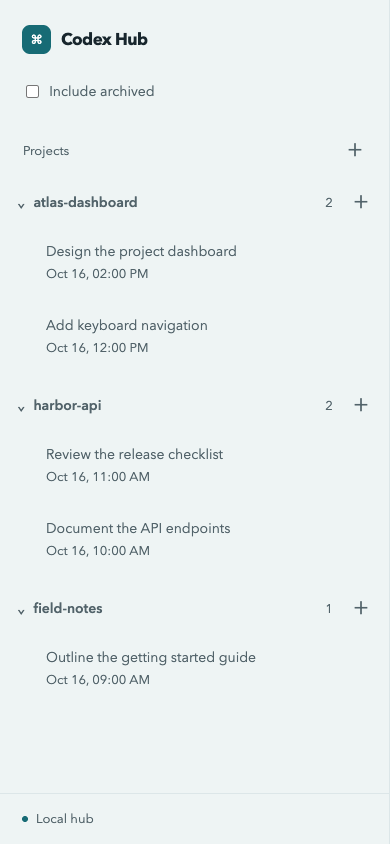
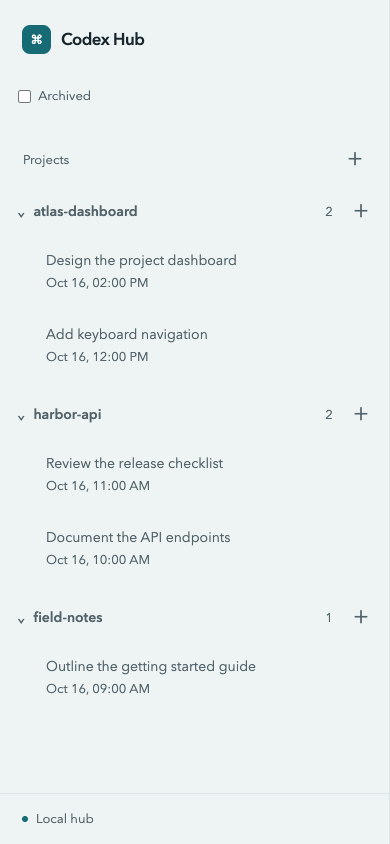
feat: compact sidebar filters and add test CI (#1)
* feat: align sidebar home and archive filters

* ci: run tests on pushes and pull requests

* ci: limit push tests to main

diff --git a/src/client/components/HubSidebar.tsx b/src/client/components/HubSidebar.tsx
@@ -51,31 +51,33 @@ export function HubSidebar({
           Codex Hub
         </InternalLink>
       </header>
-      {(catalog.list?.homes?.length ?? 0) > 1 ? (
-        <label className="archive-switch">
-          Home
-          <select
-            aria-label="Filter by home"
-            value={homeFilter}
-            onChange={(event) => onHomeFilter?.(event.target.value)}
-          >
-            <option value="">All homes</option>
-            {catalog.list!.homes.map((home) => (
-              <option key={home.sourceInstanceId} value={home.sourceInstanceId}>
-                {home.nickname}
-              </option>
-            ))}
-          </select>
+      <div className="catalog-filters">
+        {(catalog.list?.homes?.length ?? 0) > 1 ? (
+          <label className="home-filter">
+            Home
+            <select
+              aria-label="Filter by home"
+              value={homeFilter}
+              onChange={(event) => onHomeFilter?.(event.target.value)}
+            >
+              <option value="">All homes</option>
+              {catalog.list!.homes.map((home) => (
+                <option key={home.sourceInstanceId} value={home.sourceInstanceId}>
+                  {home.nickname}
+                </option>
+              ))}
+            </select>
+          </label>
+        ) : null}
+        <label className="check-row archive-switch">
+          <input
+            type="checkbox"
+            checked={navigation.includeArchived}
+            onChange={(event) => setIncludeArchived(event.target.checked)}
+          />
+          Archived
         </label>
-      ) : null}
-      <label className="check-row archive-switch">
-        <input
-          type="checkbox"
-          checked={navigation.includeArchived}
-          onChange={(event) => setIncludeArchived(event.target.checked)}
-        />
-        Include archived
-      </label>
+      </div>
       <div className="hub-section-label">
         Projects
         <button

diff --git a/tests/client/hub.test.tsx b/tests/client/hub.test.tsx
@@ -149,7 +149,7 @@ describe("unified hub", () => {
     expect(within(nav).getAllByRole("link")).toHaveLength(1);
     expect(screen.queryByRole("link", { name: /Child trace/ })).not.toBeInTheDocument();
     expect(api.items).not.toHaveBeenCalled();
-    fireEvent.click(screen.getByRole("checkbox", { name: "Include archived" }));
+    fireEvent.click(screen.getByRole("checkbox", { name: "Archived" }));
     expect(within(nav).getAllByRole("link")).toHaveLength(2);
     fireEvent.click(within(nav).getByRole("link", { name: /Reader work/ }));
     await flush();
@@ -162,14 +162,14 @@ describe("unified hub", () => {
     fireEvent.click(screen.getByRole("button", { name: /Back to list/ }));
     await flush();
     expect(window.location.pathname).toBe("/");
-    expect(screen.getByRole("checkbox", { name: "Include archived" })).toBeChecked();
+    expect(screen.getByRole("checkbox", { name: "Archived" })).toBeChecked();
     act(() => {
       window.history.replaceState(null, "", `/sessions/${archiveId}`);
       window.dispatchEvent(new PopStateEvent("popstate"));
     });
     await flush();
     expect(screen.getByRole("heading", { name: "Archived trace" })).toBeInTheDocument();
-    fireEvent.click(screen.getByRole("checkbox", { name: "Include archived" }));
+    fireEvent.click(screen.getByRole("checkbox", { name: "Archived" }));
     expect(within(nav).queryByRole("link", { name: /Archived trace/ })).not.toBeInTheDocument();
     expect(screen.getByRole("heading", { name: "Archived trace" })).toBeInTheDocument();
   });

diff --git a/src/client/styles/hub.css b/src/client/styles/hub.css
@@ -46,12 +46,36 @@
   min-width: 36px;
   font-size: 1.25rem;
 }
-.archive-switch {
-  margin-bottom: 1rem;
-  margin: 0 22px 20px;
-  padding: 8px 0;
+.catalog-filters {
+  display: flex;
+  align-items: center;
+  gap: 8px;
+  margin: 0 18px 20px;
+  min-height: 44px;
+  flex-shrink: 0;
   color: var(--ink-soft);
-  font-size: 0.875rem;
+  font-size: var(--text-small);
+}
+.home-filter {
+  display: flex;
+  align-items: center;
+  gap: 6px;
+  flex: 1;
+  min-width: 0;
+}
+.home-filter select {
+  min-width: 0;
+  flex: 1;
+}
+.archive-switch input {
+  margin: 0;
+}
+.archive-switch {
+  margin: 0;
+  min-height: 44px;
+  flex-shrink: 0;
+  white-space: nowrap;
+  cursor: pointer;
 }
 .project-heading {
   display: flex;

diff --git a/docs/development.md b/docs/development.md
@@ -31,6 +31,10 @@ ESLint checks client, server, shared code, tests, and TypeScript scripts. See th
 [isolated lint toolchain](../tools/client-lint/README.md) for import rules, React
 Hooks coverage, and its separate TypeScript API dependency.
 
+GitHub Actions runs `npm ci` and `npm test` on Ubuntu with Node.js 22 for pushes to
+`main` and pull requests. The **Tests** workflow also supports manual runs. Native tmux
+and Codex CLI integration suites remain separate from this workflow.
+
 ## Integration tests and benchmarks
 
 Install tmux and Codex CLI, then run:
